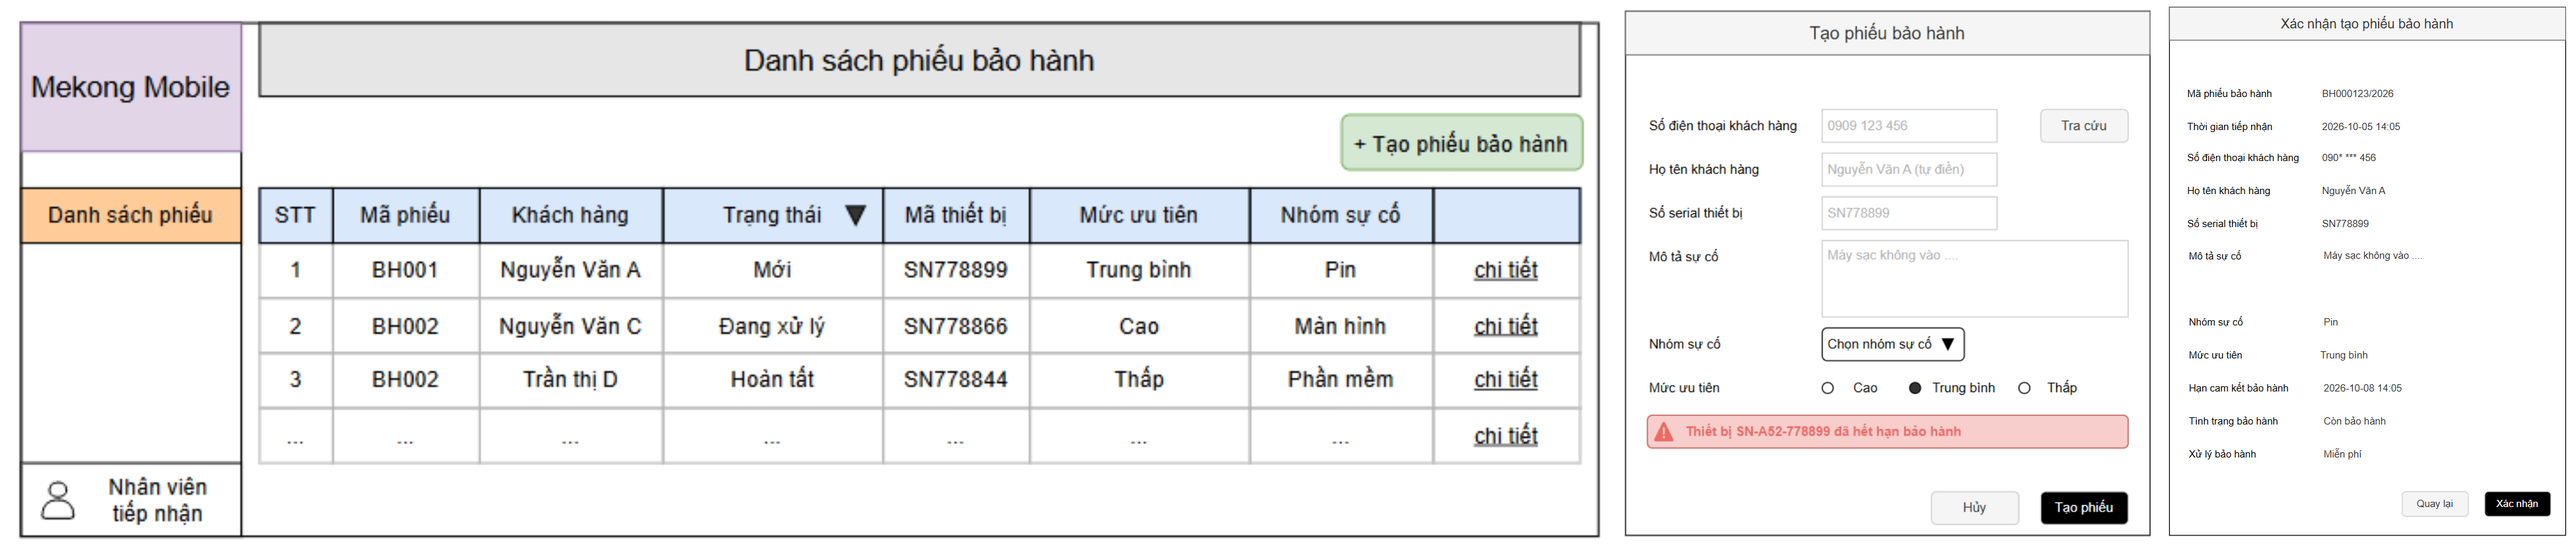
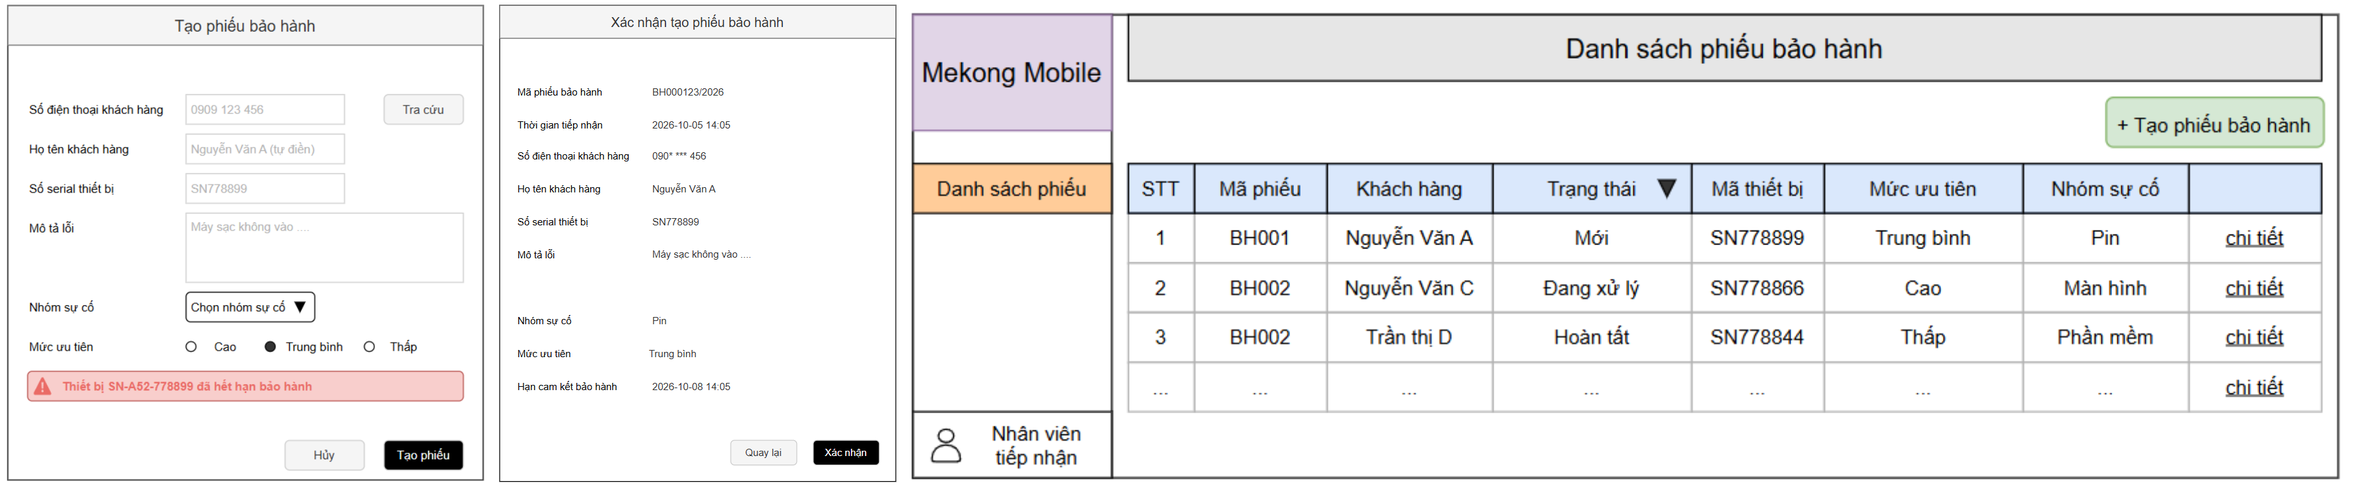
docs(erd): Bỏ trường technician_id trong bảng ticket, bỏ khóa ngoại trường changed_by trong bảng ticket_status_log docs(wireframe): Cập nhật tên trường Mô tả sự cố thành Mô tả lỗi

diff --git a/docs/thay-doi-thiet-ke.md b/docs/thay-doi-thiet-ke.md
@@ -24,7 +24,7 @@
 - Quyết định : SỬA
 - Lý do : Trường thông tin chưa đóng vai trò chính trong quá trình tạo và phân loại phiếu bảo hành trong luồng nghiệp vụ Tiếp nhận và phân loại phiếu bảo hành.
 - Ảnh hưởng : Lược bỏ trường technician_id trong bảng ticket của ERD trong phiên bản này. Xóa thiết lập trường technician_id của bảng ticket trong SQL DDL skeleton của trường changed_by.
-- File thay đổi: schema.sql.
+- File thay đổi: schema.sql, erd.drawio.
 
 ### TD-04 Chỉnh sửa Bảng thuật ngữ trong mục SRS
 
